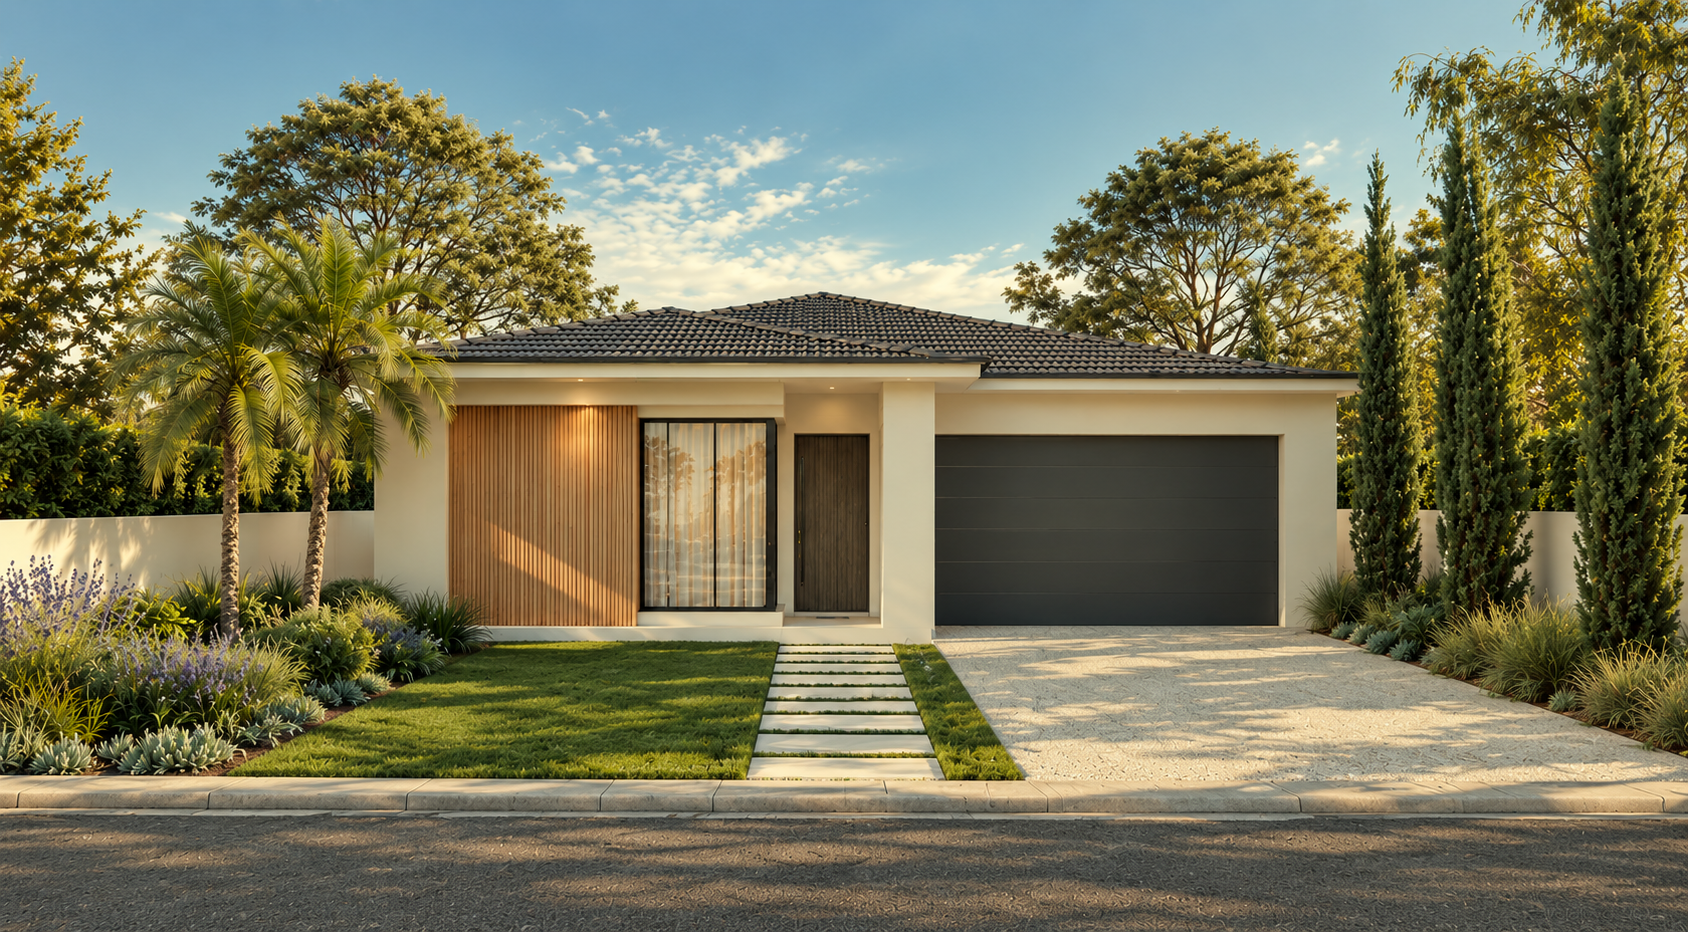
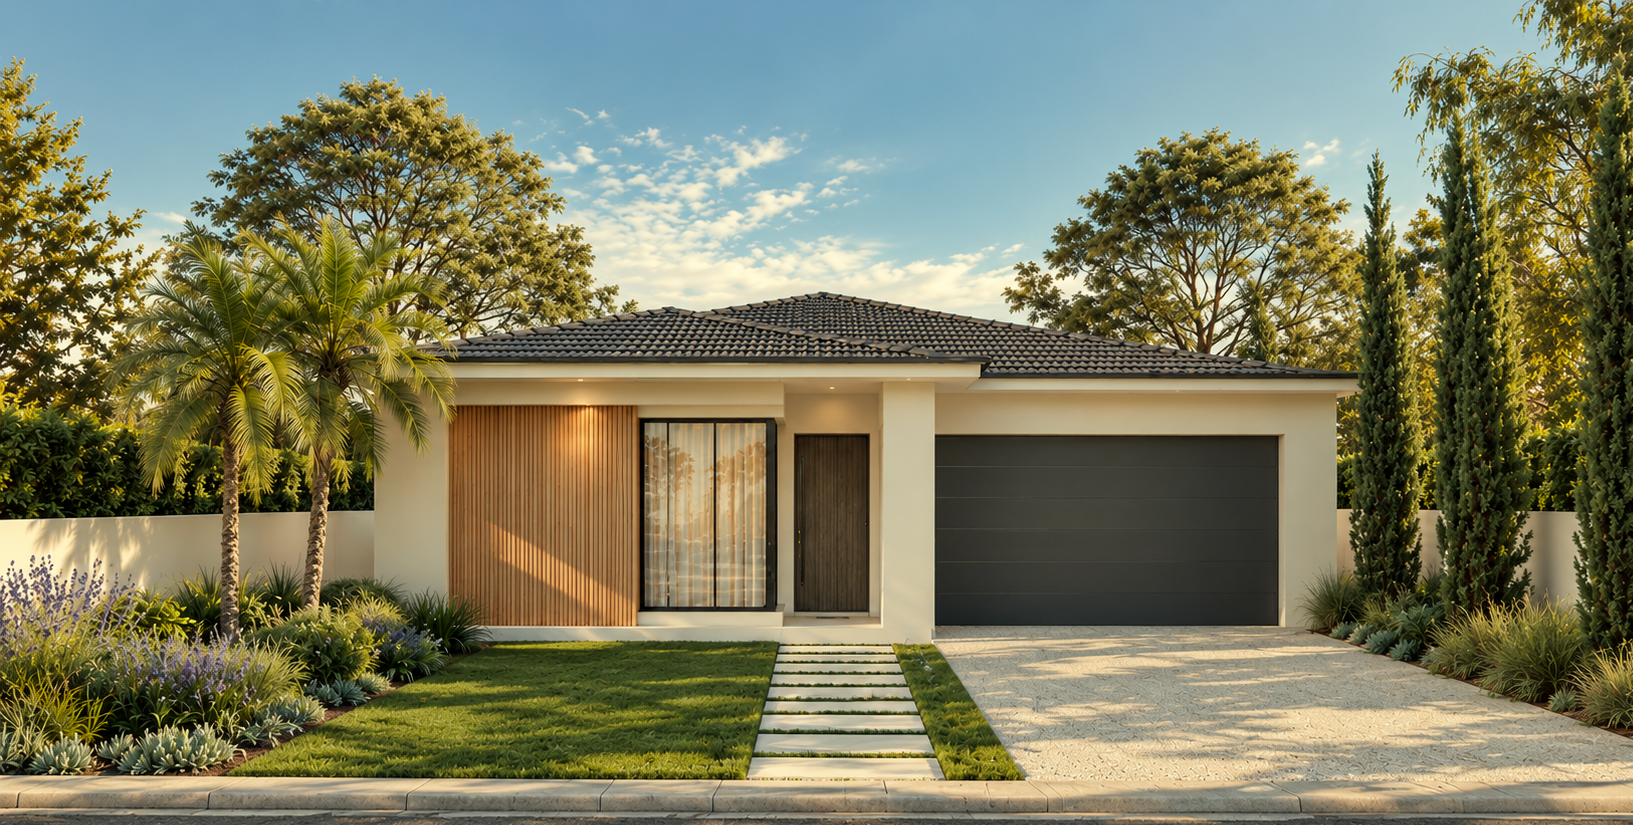
Add files via upload

diff --git a/index.html b/index.html
@@ -52,6 +52,7 @@ nav{position:fixed;top:0;left:0;right:0;z-index:1000;background:var(--bg);displa
 .style-card-bg{width:100%;height:100%;transition:transform 0.6s cubic-bezier(0.25,0.46,0.45,0.94);position:relative;display:flex;align-items:center;justify-content:center;}
 .style-card:hover .style-card-bg{transform:scale(1.05);}
 .style-card-bg img{width:100%;height:100%;object-fit:cover;position:absolute;inset:0;}
+.style-card-bg::after{content:"";position:absolute;left:0;right:0;bottom:0;height:20%;backdrop-filter:blur(3px);-webkit-backdrop-filter:blur(3px);-webkit-mask-image:linear-gradient(to top,#000 45%,transparent);mask-image:linear-gradient(to top,#000 45%,transparent);z-index:1;pointer-events:none;}
 .style-card-bg-placeholder{position:absolute;inset:0;display:flex;flex-direction:column;align-items:center;justify-content:center;gap:8px;}
 .style-card-bg-placeholder span{font-size:11px;font-weight:600;letter-spacing:0.12em;text-transform:uppercase;color:rgba(255,255,255,0.5);}
 /* Beige wash overlay */
@@ -279,7 +280,7 @@ footer{background:var(--dark);padding:52px 56px 28px;}
 /* Touch devices have no hover: show the card name panel permanently */
 @media(hover:none){
   .style-card::before{opacity:0;}
-  .style-card-overlay{transform:translateY(0);}
+  .style-card-overlay{transform:translateY(15%);}
 }
 </style>
   <!-- Google Analytics 4 -->
